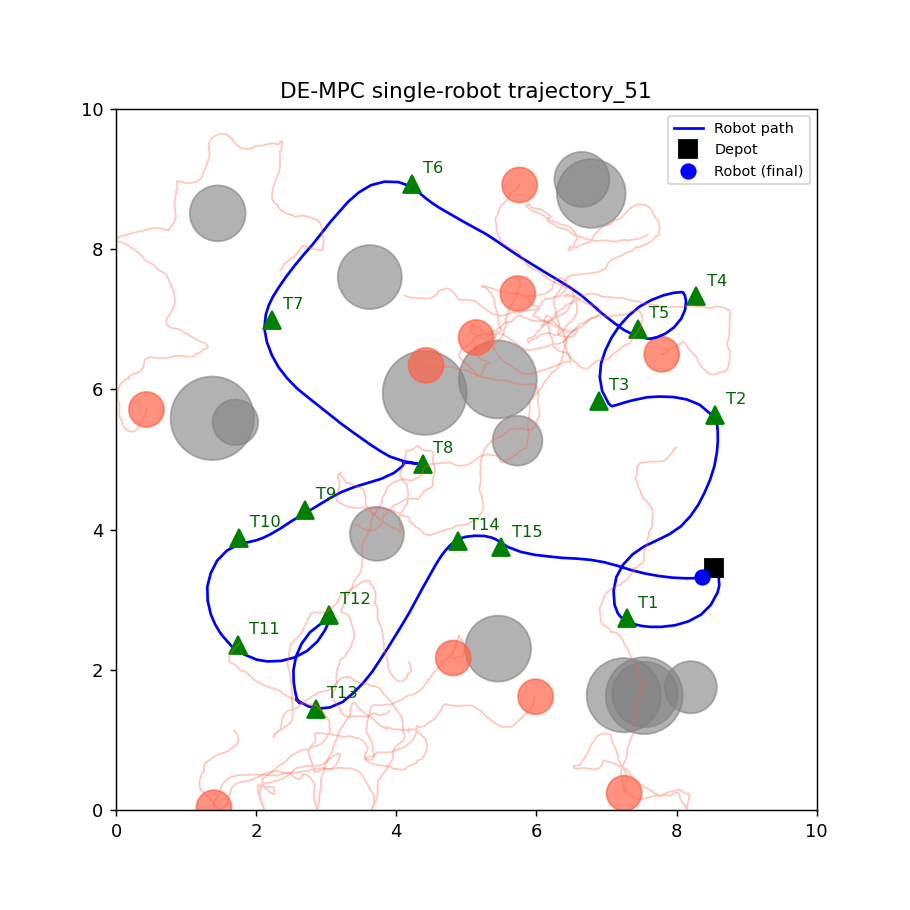
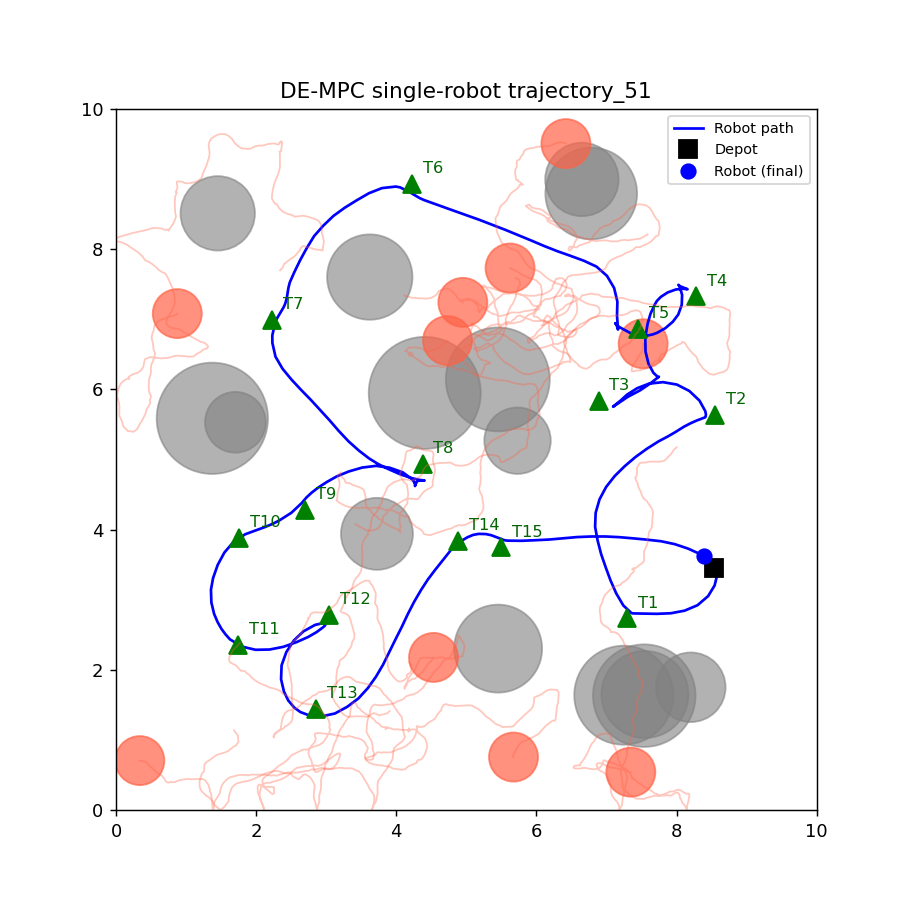
Update DEMPCPlanner and environment parameters for improved simulation performance; add new trajectory data files

diff --git a/matplotlib/live_sim.py b/matplotlib/live_sim.py
@@ -29,9 +29,9 @@ from de_mpc import DEMPCPlanner
 # ----------------------------- CONFIG -----------------------------
 RECEDING_HORIZON = True     # <-- TOGGLE THIS: True = replan every step, False = single-shot DE
 SEED = 42
-N_STATIC = 15
-N_DYNAMIC = 10
-N_TASKS = 15
+N_STATIC = 4
+N_DYNAMIC = 4
+N_TASKS = 4
 CLOSED_LOOP_HORIZON = 10    # horizon used when RECEDING_HORIZON = True
 OPEN_LOOP_HORIZON = 70      # horizon used when RECEDING_HORIZON = False (must cover a full segment)
 MAX_STEPS = 2000

diff --git a/matplotlib/de_mpc.py b/matplotlib/de_mpc.py
@@ -173,6 +173,9 @@ class DEMPCPlanner:
         bounds = [(v_lo, self.v_max), (-self.omega_max, self.omega_max)] * self.H
         # print(f"[planner] using optimizer={self.optimizer}")
 
+        zero_controls = np.zeros(self.H * 2)
+        before_cost = self._fitness(zero_controls, x0, y0, theta0, goal, static_obstacles, dyn_preds)
+
         if self.optimizer == "de":
             controls, fun = self._plan_de(bounds, x0, y0, theta0, goal, static_obstacles, dyn_preds)
         elif self.optimizer == "cem":
@@ -182,6 +185,7 @@ class DEMPCPlanner:
         else:
             raise ValueError(self.optimizer)
 
+        print(f"[DE] before (zero controls) cost = {before_cost:.3f} | after (DE) cost = {fun:.3f}")
         self.prev_solution = controls if self.warm_start else None
         return controls[0], controls, fun
     def _plan_de(self, bounds, x0, y0, theta0, goal, static_obstacles, dyn_preds):

diff --git a/matplotlib/env.py b/matplotlib/env.py
@@ -307,7 +307,7 @@ def make_default_scenario(seed=0, n_static=4, n_dynamic=3, n_tasks=4,
     static_obstacles = []
     while len(static_obstacles) < n_static:
         p = rng.uniform([xmin + 1, ymin + 1], [xmax - 1, ymax - 1])
-        r = rng.uniform(0.3, 0.6)
+        r = rng.uniform(0.4, 0.6)
         if np.linalg.norm(p - start[:2]) > 1.2 and all(
             np.linalg.norm(p - tp) > 1.0 for tp in task_points
         ):
@@ -318,7 +318,7 @@ def make_default_scenario(seed=0, n_static=4, n_dynamic=3, n_tasks=4,
         p = rng.uniform([xmin + 1, ymin + 1], [xmax - 1, ymax - 1])
         v = rng.uniform(-0.6, 0.6, size=2)
         dynamic_obstacles.append(
-            DynamicObstacle(p[0], p[1], radius=0.25, vx=v[0], vy=v[1],
+            DynamicObstacle(p[0], p[1], radius=0.35, vx=v[0], vy=v[1],
                              bounds=world, rng=rng)
         )
 

diff --git a/matplotlib/optim_bench.py b/matplotlib/optim_bench.py
@@ -14,11 +14,11 @@ def patch_planner_optimizer(optimizer_name):
 
 results = {}
 for opt in OPTIMIZERS:
-    patch_planner_optimizer(opt)
+    # patch_planner_optimizer(opt)
     rows = []
     for seed in SEEDS:
         print(f"Running {opt} with seed {seed}")
-        env, solve_times, _ = run_episode(seed=seed, max_steps=600, horizon=10, verbose=False, optimizer=opt)
+        env, solve_times, _ = run_episode(seed=seed,n_tasks=4, n_static=4, n_dynamic=4, max_steps=600, horizon=10, verbose=False, optimizer=opt)
         collided, kind = env.check_collision()
         rows.append({
             "seed": seed,

diff --git a/matplotlib/run_episode.py b/matplotlib/run_episode.py
@@ -132,14 +132,14 @@ def plot_trajectory(env, save_path="traj/episode_trajectory.png",seed=42):
     plt.savefig(save_path, dpi=130)
     print("Saved:", save_path)
 
-SEED = [42,51,33,24,321,6,2004,1005,2022,5001]
+SEED = [25,35,45,55,66]
 # SEED = [23]
 N_STATIC = 15
 N_DYNAMIC = 10
 N_TASKS = 15
 CLOSED_LOOP_HORIZON = 10    # horizon used when RECEDING_HORIZON = True
 OPEN_LOOP_HORIZON = 70      # horizon used when RECEDING_HORIZON = False (must cover a full segment)
-MAX_STEPS = 1000
+MAX_STEPS = 1500
 
 if __name__ == "__main__":
     for seed in SEED: